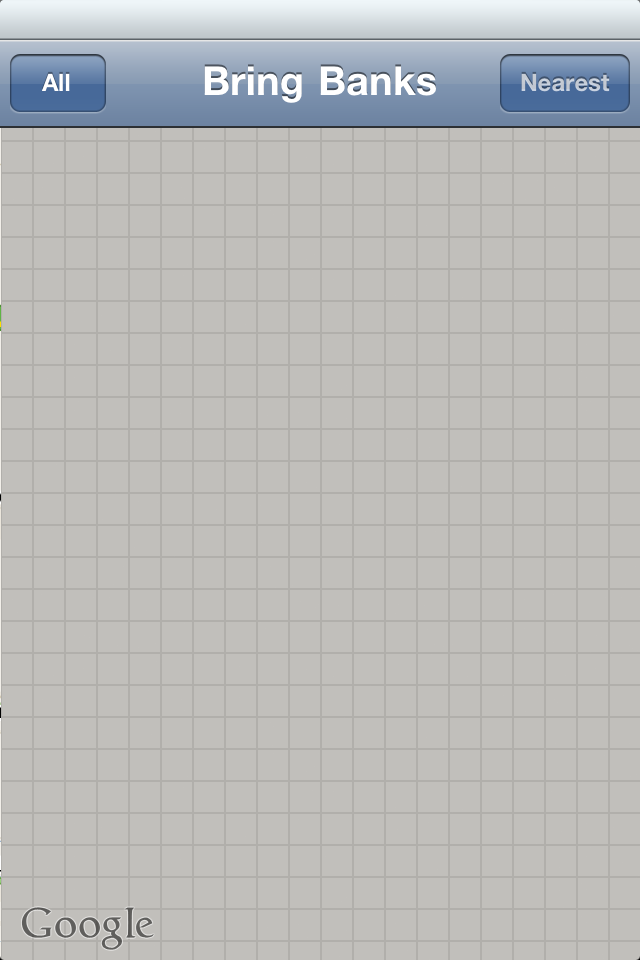
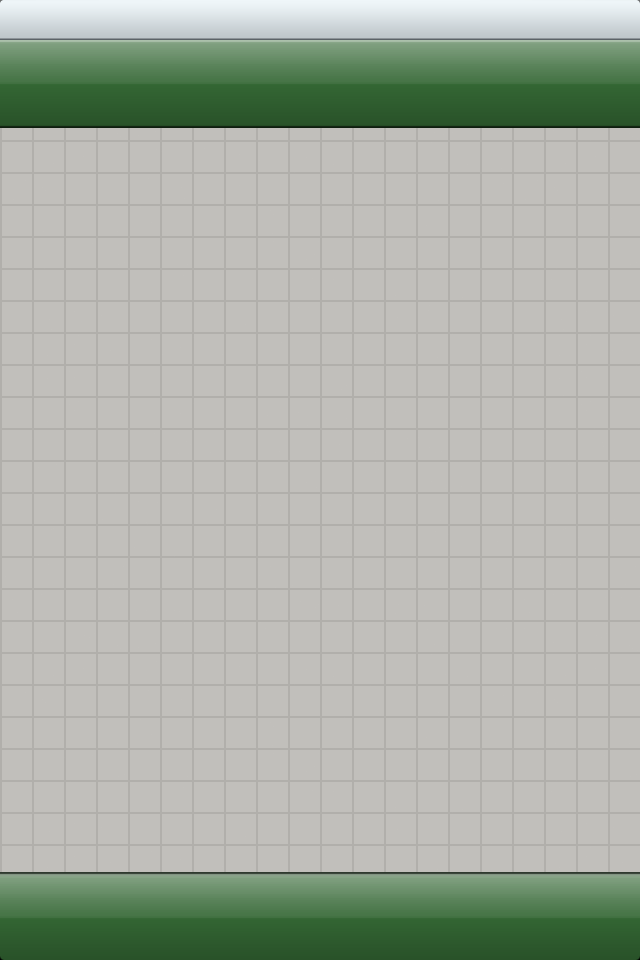
Added filter control for viewing only glass banks, textile banks, etc

Changed region(s): [[0.0, 0.0312, 1.0, 0.1562], [0.0, 0.9062, 1.0, 1.0]]

diff --git a/Classes/BringBanksViewController.m b/Classes/BringBanksViewController.m
@@ -13,6 +13,7 @@
 @implementation BringBanksViewController
 
 @synthesize mapView = mapView_;
+@synthesize filterControl = filterControl_;
 @synthesize allBringBanksRegion = allBringBanksRegion_;
 
 #pragma mark - View lifecycle
@@ -38,7 +39,25 @@
     
     [nearestButton release];
     
-    if (bringBanks_ == nil) {
+    
+    UISegmentedControl *filterControl = [[UISegmentedControl alloc] initWithItems:[NSArray arrayWithObjects:@"All", @"Glass", @"Cans", @"Textiles", nil]];
+    
+    filterControl.segmentedControlStyle = UISegmentedControlStyleBar;
+    filterControl.selectedSegmentIndex = 0;
+    filterControl.tintColor = [UIColor colorWithRed:0.2f green:0.4f blue:0.2f alpha:1.0f];
+    
+    [filterControl addTarget:self action:@selector(filterChanged:) forControlEvents:UIControlEventValueChanged];
+    
+    self.filterControl = filterControl; 
+    
+    [filterControl release];
+    
+    UIBarButtonItem *filterBarButton = [[[UIBarButtonItem alloc] initWithCustomView:self.filterControl] autorelease];        
+    UIBarButtonItem *flexibleSpace = [[[UIBarButtonItem alloc] initWithBarButtonSystemItem:UIBarButtonSystemItemFlexibleSpace target:nil action:nil] autorelease];
+    
+    self.toolbarItems = [NSArray arrayWithObjects:flexibleSpace, filterBarButton, flexibleSpace, nil];
+    
+    if (allBringBanks_ == nil) {
         [self loadBringBanks];
     }
     
@@ -49,7 +68,9 @@
 // Override to allow orientations other than the default portrait orientation.
 - (BOOL)shouldAutorotateToInterfaceOrientation:(UIInterfaceOrientation)interfaceOrientation {
     // Return YES for supported orientations
-    return YES;
+    return interfaceOrientation == UIInterfaceOrientationPortrait || 
+        interfaceOrientation == UIInterfaceOrientationLandscapeLeft || 
+        interfaceOrientation == UIInterfaceOrientationLandscapeRight;
 }
 
 #pragma mark - Memory Management
@@ -67,7 +88,11 @@
 
 - (void)dealloc {
     [mapView_ release];
-    [bringBanks_ release];
+    [filterControl_ release];
+    [allBringBanks_ release];
+    [glassBringBanks_ release];
+    [cansBringBanks_ release];
+    [textilesBringBanks_ release];
     [super dealloc];
 }
 
@@ -136,9 +161,8 @@
 						
 						currentTagValue = xmlTextReaderConstValue(reader);
                         
-                        if (xmlStrEqual(currentNameAttr, BAD_CAST "ID_")) {    
-                            
-                            bringBank.ID = atof((const char *)currentTagValue);
+                        if (xmlStrEqual(currentNameAttr, BAD_CAST "ID_")) {                            
+                            bringBank.ID = [NSString stringWithUTF8String:(const char *)currentTagValue];
                         }
                         
                         if (xmlStrEqual(currentNameAttr, BAD_CAST "WEIGHT")) {                            
@@ -202,13 +226,43 @@
     
     [data release];
     
-    bringBanks_ = [tempBringBanks copy];
+    allBringBanks_ = [tempBringBanks copy];
     
     [tempBringBanks release];
     
+    NSMutableArray *tempGlassBringBanks = [[NSMutableArray alloc] initWithCapacity:0];
+    NSMutableArray *tempCansBringBanks = [[NSMutableArray alloc] initWithCapacity:0];
+    NSMutableArray *tempTextilesBringBanks = [[NSMutableArray alloc] initWithCapacity:0];
+    
+    for (BringBank *bringBank in allBringBanks_) {
+        
+        if (bringBank.materialTypes & BringBankMaterialTypeGlass) {
+            [tempGlassBringBanks addObject:bringBank];
+        }
+        
+        if (bringBank.materialTypes & BringBankMaterialTypeCans) {
+            [tempCansBringBanks addObject:bringBank];
+        }
+        
+        if (bringBank.materialTypes & BringBankMaterialTypeTextiles) {
+            [tempTextilesBringBanks addObject:bringBank];
+        }
+        
+    }
+    
+    glassBringBanks_ = [tempGlassBringBanks copy];
+    cansBringBanks_ = [tempCansBringBanks copy];
+    textilesBringBanks_ = [tempTextilesBringBanks copy];
+    
+    [tempGlassBringBanks release];
+    [tempCansBringBanks release];
+    [tempTextilesBringBanks release];
+    
 	self.mapView.region = self.allBringBanksRegion;
     
-	[self.mapView addAnnotations:bringBanks_];   
+    filteredBringBanks_ = allBringBanks_;
+    
+	[self.mapView addAnnotations:filteredBringBanks_];   
     
 }
 
@@ -220,7 +274,7 @@
         CLLocationDegrees minLon = 180.0;
         CLLocationDegrees maxLon = -180.0;
         
-        for (id <MKAnnotation> bringBank in bringBanks_) {
+        for (id <MKAnnotation> bringBank in allBringBanks_) {
             if (bringBank.coordinate.latitude != 0 && bringBank.coordinate.longitude != 0) {
                 if (bringBank.coordinate.latitude < minLat) {
                     minLat = bringBank.coordinate.latitude;
@@ -285,7 +339,7 @@
         CLLocationDistance closestDistnace = MAXFLOAT;
         BringBank *closestBringBank = nil;
         
-        for (id <MKAnnotation> bringBank in bringBanks_) {
+        for (id <MKAnnotation> bringBank in filteredBringBanks_) {
             CLLocation *location = [[CLLocation alloc] initWithLatitude:bringBank.coordinate.latitude 
                                                               longitude:bringBank.coordinate.longitude];
             CLLocationDistance distance = [location distanceFromLocation:self.mapView.userLocation.location];
@@ -313,5 +367,31 @@
     
 	[self.mapView setRegion:self.allBringBanksRegion animated:YES];
 }
+
+- (IBAction)filterChanged:(UISegmentedControl *)sender {
+    [self.mapView removeAnnotations:filteredBringBanks_];
+    
+    switch (sender.selectedSegmentIndex) {
+        case 0: {
+            filteredBringBanks_ = allBringBanks_;
+            break;
+        }
+        case 1: {
+            filteredBringBanks_ = glassBringBanks_;
+            break;
+        }
+        case 2: {
+            filteredBringBanks_ = cansBringBanks_;
+            break;
+        }
+        case 3: {
+            filteredBringBanks_ = textilesBringBanks_;
+            break;
+        }
+    }
+    
+    [self.mapView addAnnotations:filteredBringBanks_];
+}
+
 
 @end

diff --git a/Classes/BringBanksViewController.h b/Classes/BringBanksViewController.h
@@ -12,10 +12,16 @@
 
 @interface BringBanksViewController : UIViewController <MKMapViewDelegate> {
 @private
-    NSArray *bringBanks_;
+    NSArray *allBringBanks_;
+    NSArray *glassBringBanks_;
+    NSArray *cansBringBanks_;
+    NSArray *textilesBringBanks_;
+    NSArray *filteredBringBanks_;
+
 }
 
 @property (nonatomic, retain) IBOutlet MKMapView *mapView;
+@property (nonatomic, retain) UISegmentedControl *filterControl;
 @property (nonatomic, readonly) MKCoordinateRegion allBringBanksRegion;
 
 - (void)loadBringBanks;
@@ -23,6 +29,7 @@
 
 - (IBAction)showNearest:(id)sender;
 - (IBAction)showAll:(id)sender;
+- (IBAction)filterChanged:(UISegmentedControl *)sender;
 
 @end
 

diff --git a/Classes/BringBank.h b/Classes/BringBank.h
@@ -16,7 +16,7 @@ typedef enum {
 } BringBankMaterialType;
 
 @interface BringBank : NSObject <MKAnnotation> {
-    double ID;
+    NSString *ID;
     NSString *GISID;
     double weight;
     NSString *electoralArea;
@@ -27,7 +27,7 @@ typedef enum {
 	BringBankMaterialType materialTypes;
 }
 
-@property (nonatomic) double ID;
+@property (nonatomic, copy) NSString *ID;
 @property (nonatomic, copy) NSString *GISID;
 @property (nonatomic) double weight;
 @property (nonatomic, copy) NSString *electoralArea;

diff --git a/Classes/BringBank.m b/Classes/BringBank.m
@@ -50,6 +50,7 @@
 }
 
 - (void)dealloc {
+    [ID release];
     [GISID release];
     [electoralArea release];
     [location release];
